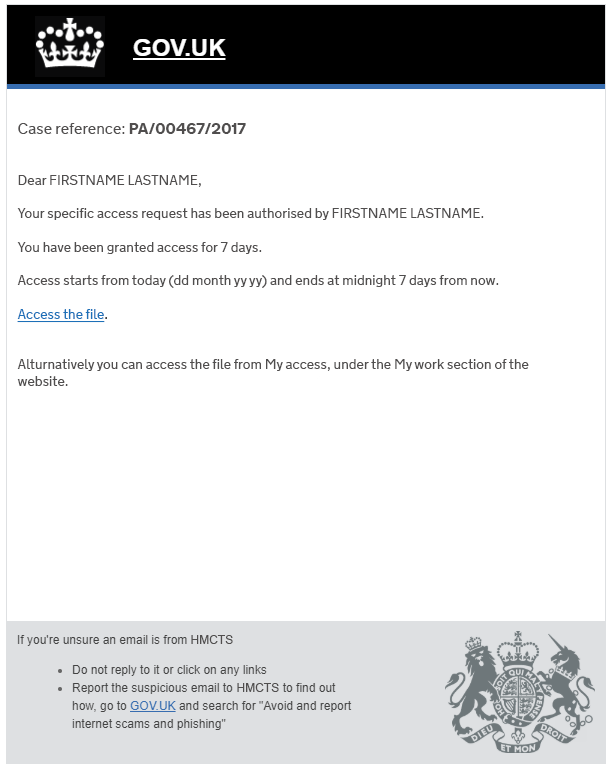
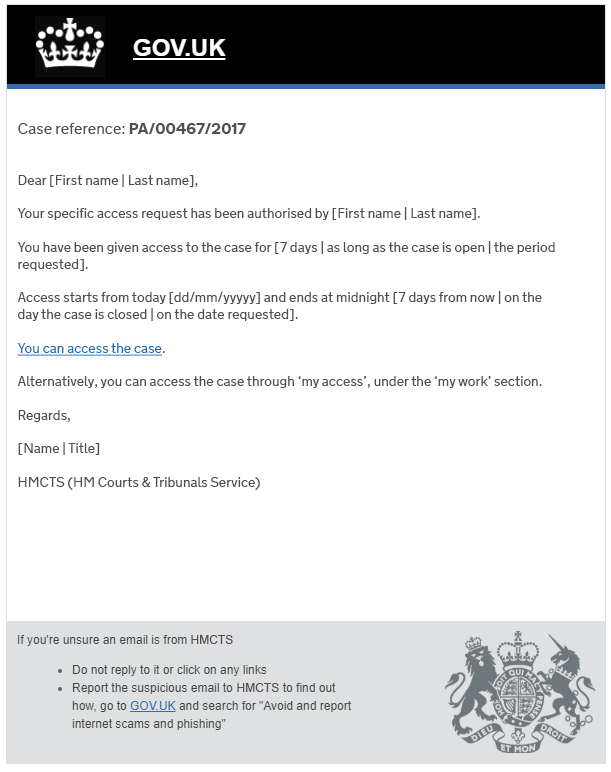
updates

diff --git a/app/views/caseaccess/pages/PA-00467-2017-confirmation.html b/app/views/caseaccess/pages/PA-00467-2017-confirmation.html
@@ -19,16 +19,15 @@ Case details
         titleText: "Request sent",
         html: "Case reference:<br><strong>PA/00467/2017</strong>"
       }) }}
-  <p class="govuk-body">We have sent you a confirmation email.</p>
+
 
       <h2 class="govuk-heading-m">What happens next</h2>
-      <p class="govuk-body">
-      Your request to access this case file has been sent. </p>
+      <p class="govuk-body">You will receive an email confirming your request to access this case file.</p>
+      <p class="govuk-body">We’ll send another email notifying you of our decision.</p>
 
       <p class="govuk-body">
-        We'll let you know our decision by email.<!--Once your request has been authorised, you’ll be able to access the case through <a href="myaccess-p" class="govuk-link">My access</a>.
-      --></p>
-      <p>Your request will be logged for auditing purposes.
+        <!--Once your request has been authorised, you’ll be able to access the case through <a href="myaccess-p" class="govuk-link">My access</a>.
+      -->Your request will be logged for auditing purposes.</p>
     </div>
   </div>
 {% endblock %}

diff --git a/app/views/caseaccess/pages/PA-00467-2017-trac-case.html b/app/views/caseaccess/pages/PA-00467-2017-trac-case.html
@@ -16,7 +16,7 @@ Case details
               <h2 class="govuk-heading-m">What happens next</h2>
 
               <p class="govuk-body">
-                The requester will be sent an email informing them they now have access.
+                The person making the request will be sent an email notifying them that they now have access to the case.
               </p>
 
 

diff --git a/app/views/caseaccess/index.html b/app/views/caseaccess/index.html
@@ -9,7 +9,7 @@ GOV.UK Prototype Kit
       Case access prototype
     </h1>
     <h2 class="govuk-heading-l">
-      Last updated (02/6/21)
+      Last updated (04/06/21)
     </h2>
     <p class="govuk-body-l">Page widths have been increased to new wider width.</p>
     <div style="display: flex; margin-top: 80px;">

diff --git a/app/views/caseaccess/pages/PA-00467-2017-trr-case.html b/app/views/caseaccess/pages/PA-00467-2017-trr-case.html
@@ -29,7 +29,7 @@ Case details
     }
   },
   hint: {
-    text: "Select one reason. This reason will be sent to the person requesting access to the case."
+    text: "Select an option. This information will be sent to the person requesting access to the case."
   },
   items: [
   {

diff --git a/app/views/caseaccess/pages/email-approved.html b/app/views/caseaccess/pages/email-approved.html
@@ -12,7 +12,7 @@
   <div class="govuk-grid-row">
     <div class="govuk-grid-column-two-thirds">
       <a href="#">
-<img src="/public/images/specific-access-approved.png" alt="Mock email"></a>
+<img src="/public/images/sar-a.png" alt="Mock email"></a>
 
     </div>
   </div>

diff --git a/app/views/workallocation/index.html b/app/views/workallocation/index.html
@@ -9,8 +9,8 @@ GOV.UK Prototype Kit
       Work allocation prototype
     </h1>
     <h2 class="govuk-heading-l">
-      Last updated (03/06/21)
-    </h2>
+      Last updated (04/06/21)
+    </h2>c
     <div style="display: flex; margin-top: 80px;">
 
 

diff --git a/app/views/caseaccess/pages/PA-00467-2017-tra-case.html b/app/views/caseaccess/pages/PA-00467-2017-tra-case.html
@@ -78,7 +78,7 @@ Case details
 
       {
         value: "phone",
-        text: "Indefinite",
+        text: "As long as the case is open",
         hint: {
       text: "Access starts from today and lasts while the case is open."
     }
